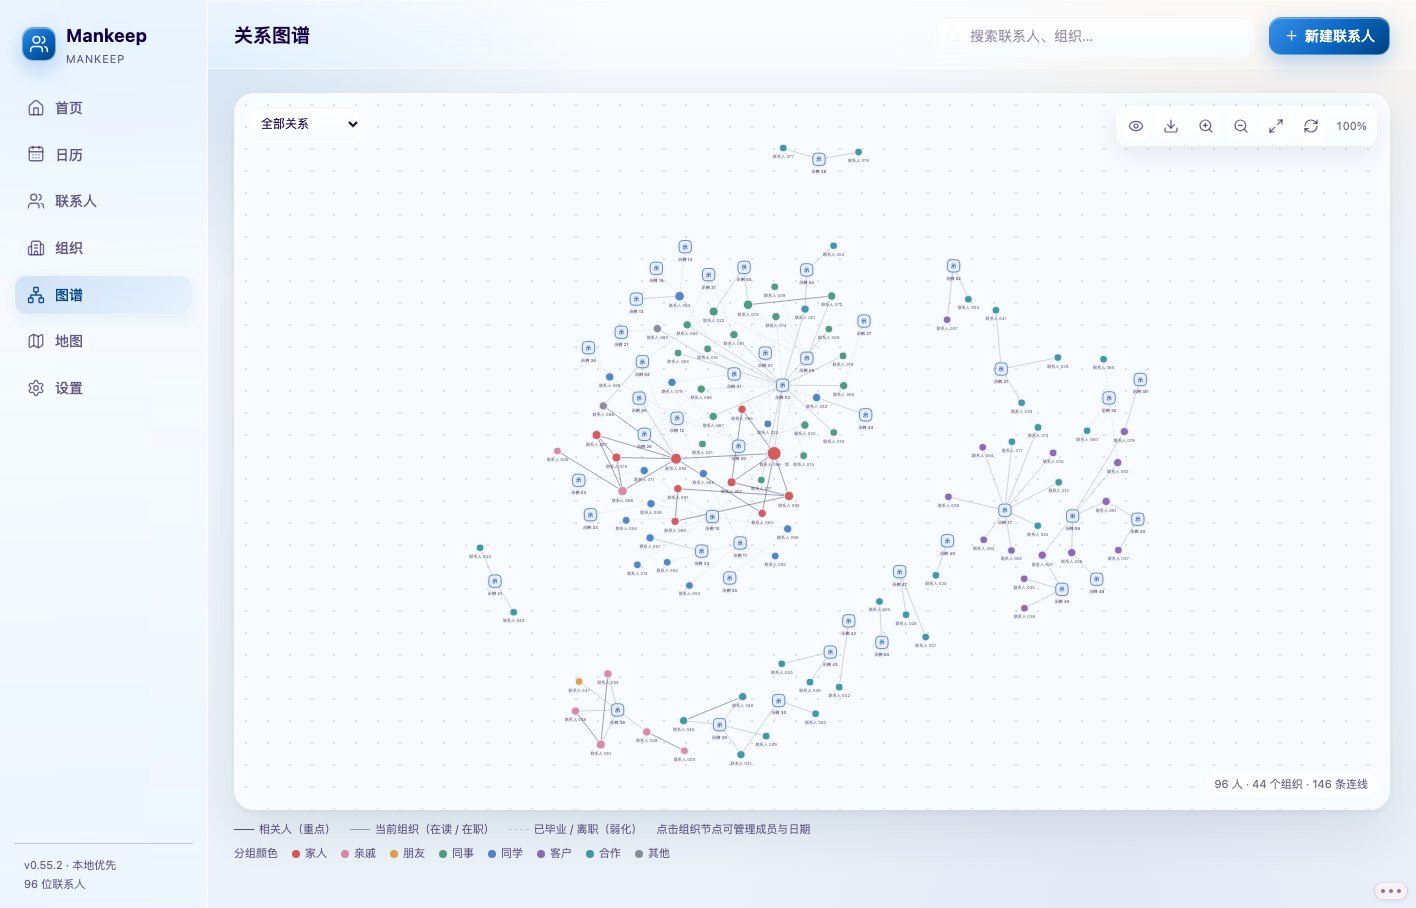
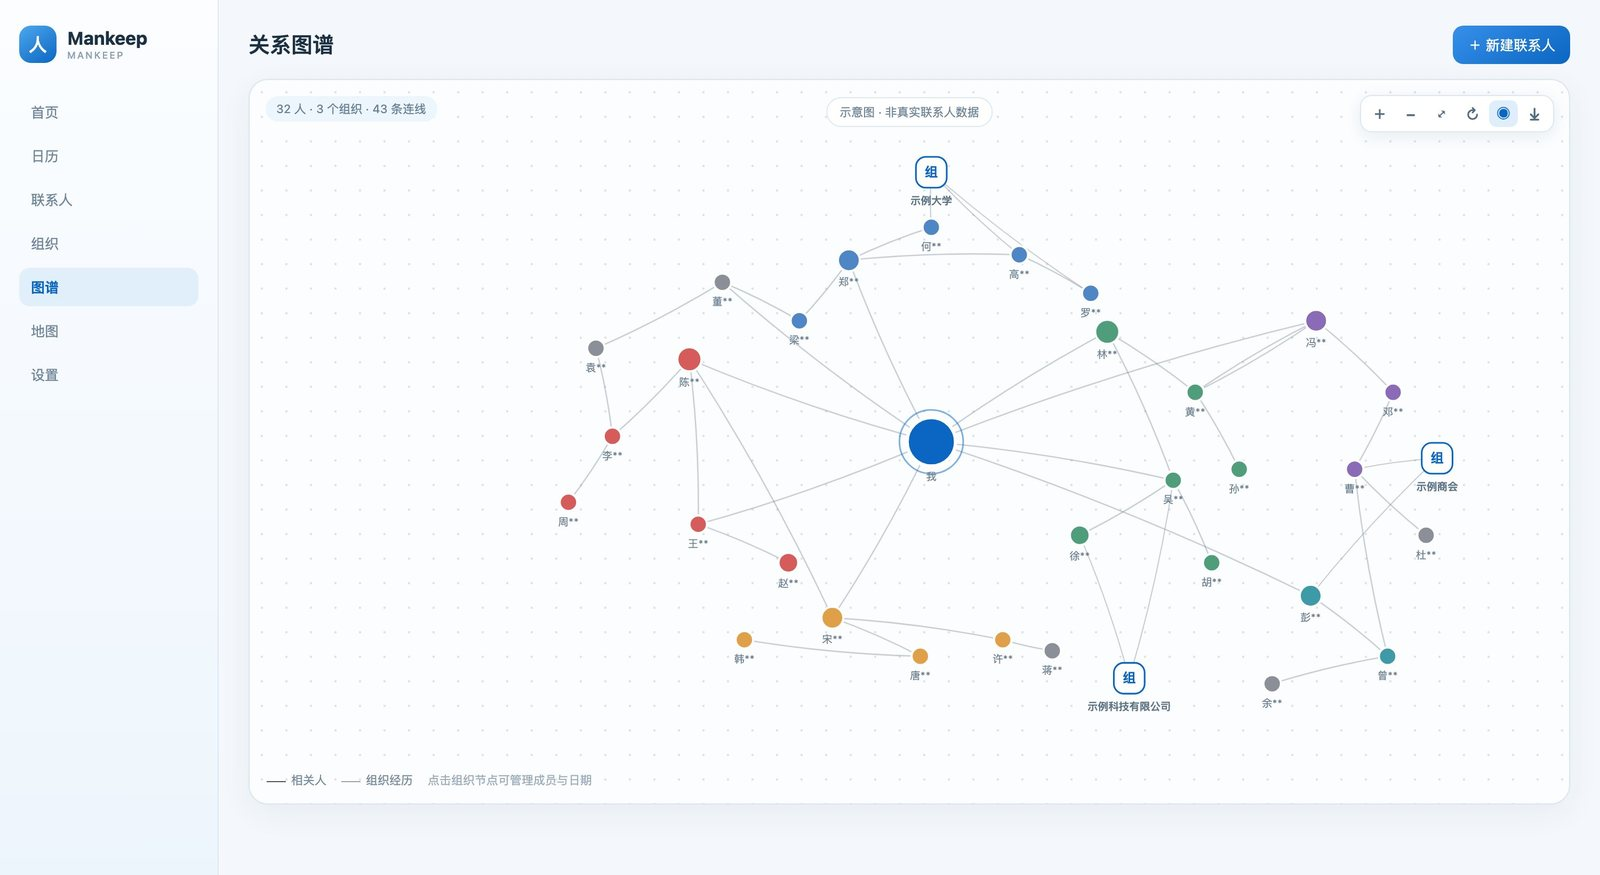
Remove personal map screenshot and use synthetic graph

diff --git a/README.md b/README.md
@@ -32,15 +32,13 @@
 
 ### 地图
 
-![全局地图](https://cdn.jsdelivr.net/gh/ccztao/siyuan-mankeep@main/screenshots/global-map.jpg)
-
 家庭地址和公司地址都可精准选点，保存 6 位坐标；相同家庭地址可复用并共享坐标。地图页按地址合并联系人，全局地图支持家庭红 / 公司蓝标记，点击查看地址和联系人；设置中可选高德 / 百度。
 
 ### 关系图谱
 
-![关系图谱](https://cdn.jsdelivr.net/gh/ccztao/siyuan-mankeep@main/screenshots/graph.jpg)
+![关系图谱示意图](https://cdn.jsdelivr.net/gh/ccztao/siyuan-mankeep@main/screenshots/graph.jpg)
 
-> 图谱已匿名化：联系人显示为「联系人001…」，组织显示为「示例…」，Logo 已移除。
+> 示意图，非真实联系人数据。
 
 双向关系和 org 经历自动排布；支持聚焦、搜索、缩放、拖拽。隐私模式保留姓氏、隐藏名字；导出 6 倍 PNG，保留主题和 Logo，无点阵背景。
 
